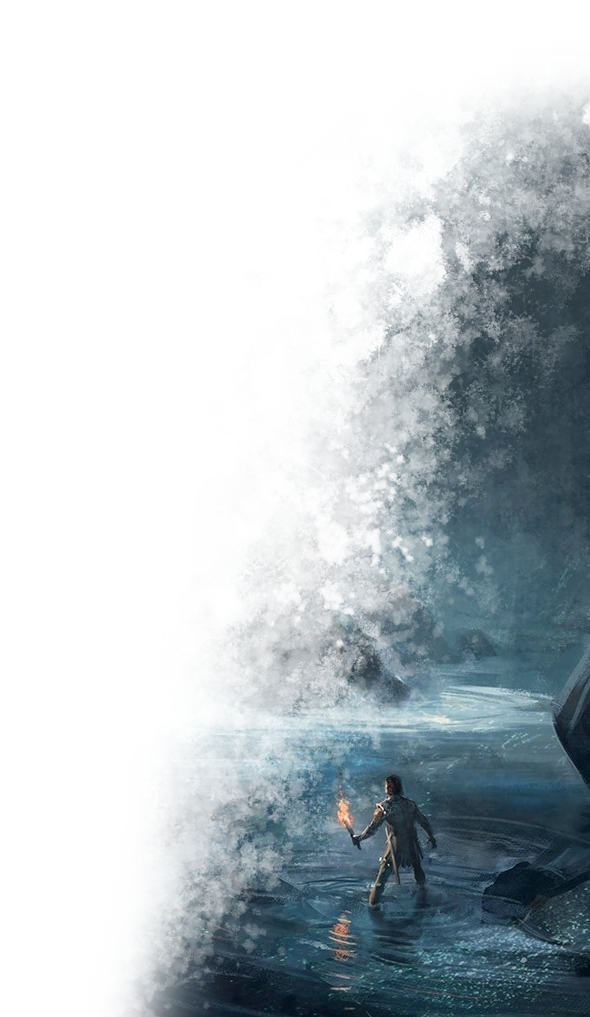
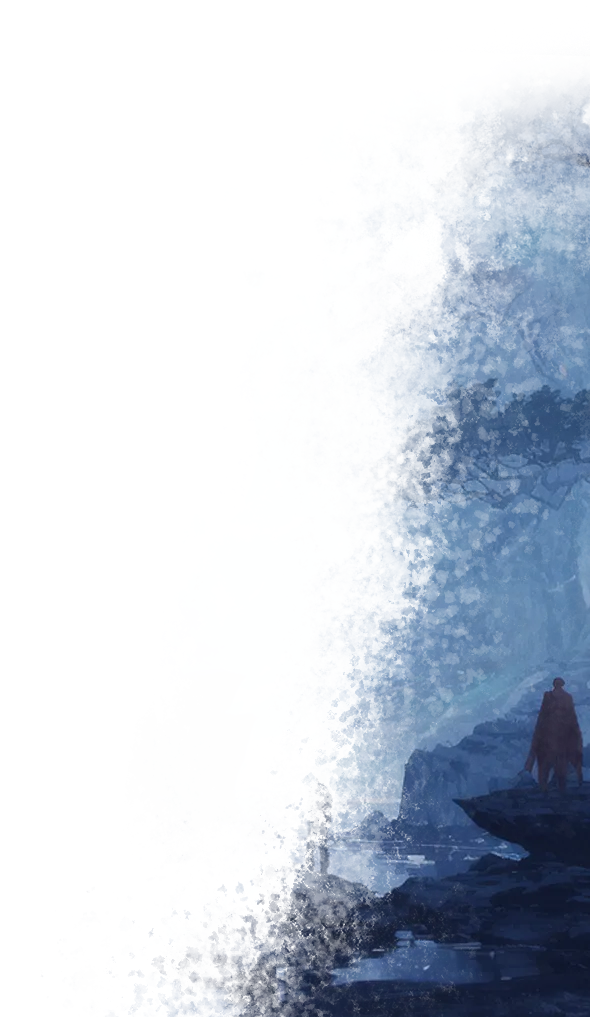
update: padination, main fone img, width page

diff --git a/src/pages/search/SearchView.vue b/src/pages/search/SearchView.vue
@@ -438,8 +438,10 @@
       position: sticky;
       bottom: 0;
       background-color: var(--bg-main);
-      padding: 8px 0 24px 0;
+      padding: 8px 0 16px 0;
       margin: -8px 0 -24px 0;
+      border-top-left-radius: 16px;
+      border-top-right-radius: 16px;
     }
   }
 

diff --git a/src/layouts/PageLayout.vue b/src/layouts/PageLayout.vue
@@ -116,6 +116,11 @@
           flex: 1 1 960px;
           max-width: 960px;
         }
+
+        @include media-min($xxl) {
+          flex: 1 1 1320px;
+          max-width: 1320px;
+        }
       }
 
       &--right {

diff --git a/src/shared/config/theme-overrides/light.ts b/src/shared/config/theme-overrides/light.ts
@@ -100,4 +100,7 @@ export const light: GlobalThemeOverrides = {
     fontSize: 'var(--main-font-size)',
     color: 'var(--bg-main)',
   },
+  Pagination: {
+    itemColorDisabled: 'var(--hover)',
+  },
 };

diff --git a/src/shared/config/theme-overrides/dark.ts b/src/shared/config/theme-overrides/dark.ts
@@ -100,4 +100,7 @@ export const dark: GlobalThemeOverrides = {
     fontSize: 'var(--main-font-size)',
     color: 'var(--bg-main)',
   },
+  Pagination: {
+    itemColorDisabled: 'var(--hover)',
+  },
 };
